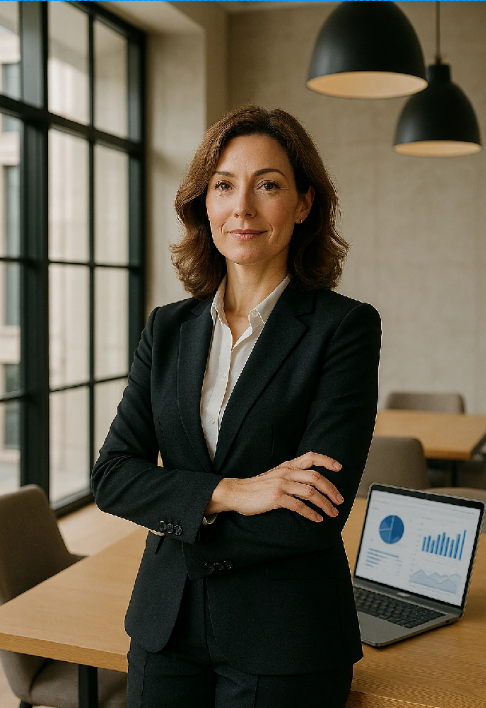
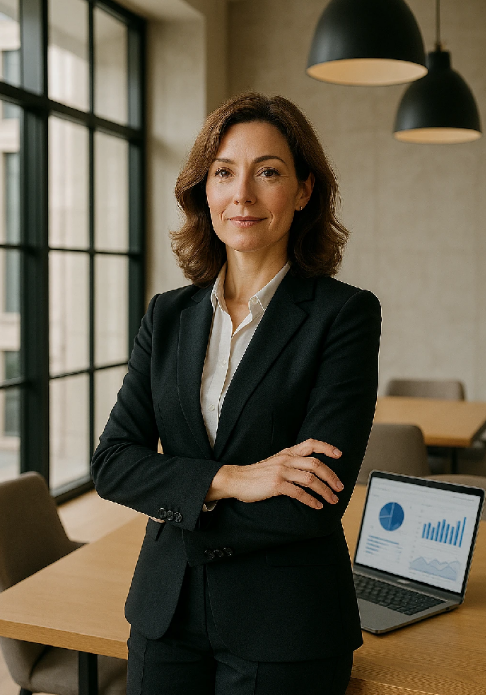
updated slider

diff --git a/components/sections/Home/News.js b/components/sections/Home/News.js
@@ -22,7 +22,7 @@ function News() {
                             <Link data-depth="0.05" href="/page-about" className="btns btn-one mt-20 wow fadeInUp"
                                 data-wow-delay="400ms" data-wow-duration="1500ms">Bakım & Onarım Hizmetleri<i className="deg45 fa-solid fa-arrow-right"></i></Link>
                         </div>
-                        <div className="news__item news__item-2 wow fadeInLeft" data-wow-delay="00ms" data-wow-duration="1500ms">
+                        <div className="news__item news__item-2 wow fadeInBottom" data-wow-delay="00ms" data-wow-duration="1500ms">
                             <div className="news__image">
                                 <img src="assets/images/news/news-2.png" alt="image" />
                                 <img src="assets/images/news/news-2.png" alt="image" />
@@ -34,7 +34,7 @@ function News() {
                             <Link data-depth="0.05" href="/page-about" className="btns btn-one mt-20 wow fadeInUp"
                                 data-wow-delay="400ms" data-wow-duration="1500ms">EQA’yı Keşfedin<i className="deg45 fa-solid fa-arrow-right"></i></Link>
                         </div>
-                        <div className="news__item news__item-3 wow fadeInLeft" data-wow-delay="00ms" data-wow-duration="1500ms">
+                        <div className="news__item news__item-3 wow fadeInRight" data-wow-delay="00ms" data-wow-duration="1500ms">
                             <div className="news__image">
                                 <img src="assets/images/news/news-3.png" alt="image" />
                                 <img src="assets/images/news/news-3.png" alt="image" />

diff --git a/components/sections/Home/SliderMain.js b/components/sections/Home/SliderMain.js
@@ -50,15 +50,13 @@ function SliderMain() {
                         </div>
                     </SwiperSlide>
                     <SwiperSlide>
-                        <video className="slider-home-main__video" ref={videoRef} muted loop playsInline autoPlay>
-                            <source src="assets/video/mb-slider-video-2.mp4" type="video/mp4" />
-                        </video>
+                        <img className="slider-home-main__image" src="assets/images/slider/slider-image-1.jpg" alt="Gelecek Otomotiv" />
                         <div className="container">
                             <div className="slider-home-main__content">
-                                <h2 className="title text-center wow fadeInUp" data-depth="0.03" data-wow-delay="00ms" data-wow-duration="1500ms">
+                                <h2 className="title text-center text-black wow fadeInUp" data-depth="0.03" data-wow-delay="00ms" data-wow-duration="1500ms">
                                     Tamamen Elektrikli, Tamamen Mercedes.</h2>
                                 <div className="btns justify-content-center mt-20">
-                                    <Link data-depth="0.05" href="/page-about" className="btn-two-light wow fadeInUp"
+                                    <Link data-depth="0.05" href="/page-about" className="btn-two wow fadeInUp"
                                         data-wow-delay="400ms" data-wow-duration="1500ms">TEST SÜRÜŞÜ İÇİN RANDEVU AL<i className="deg45 fa-solid fa-arrow-right"></i></Link>
                                 </div>
                             </div>

diff --git a/public/assets/css/home.css b/public/assets/css/home.css
@@ -38,12 +38,20 @@ a.btns {
   gap: 10px;
 }
 
-.btns a {
+.btns a.btn-two-light {
   background-color: var(--black-25);
 }
 
-.btns a:hover {
+.btns a.btn-two-light:hover {
   background-color: var(--black-75);
+}
+
+.btns a.btn-two {
+  background-color: var(--white-25);
+}
+
+.btns a.btn-two:hover {
+  background-color: var(--white-75);
 }
 
 .btns i.deg45 {
@@ -117,7 +125,8 @@ a.btns {
   bottom: 0;
 }
 
-.slider-home-main__video {
+.slider-home-main__video,
+.slider-home-main__image {
   width: 100%;
   height: 100%;
   -o-object-fit: cover;
